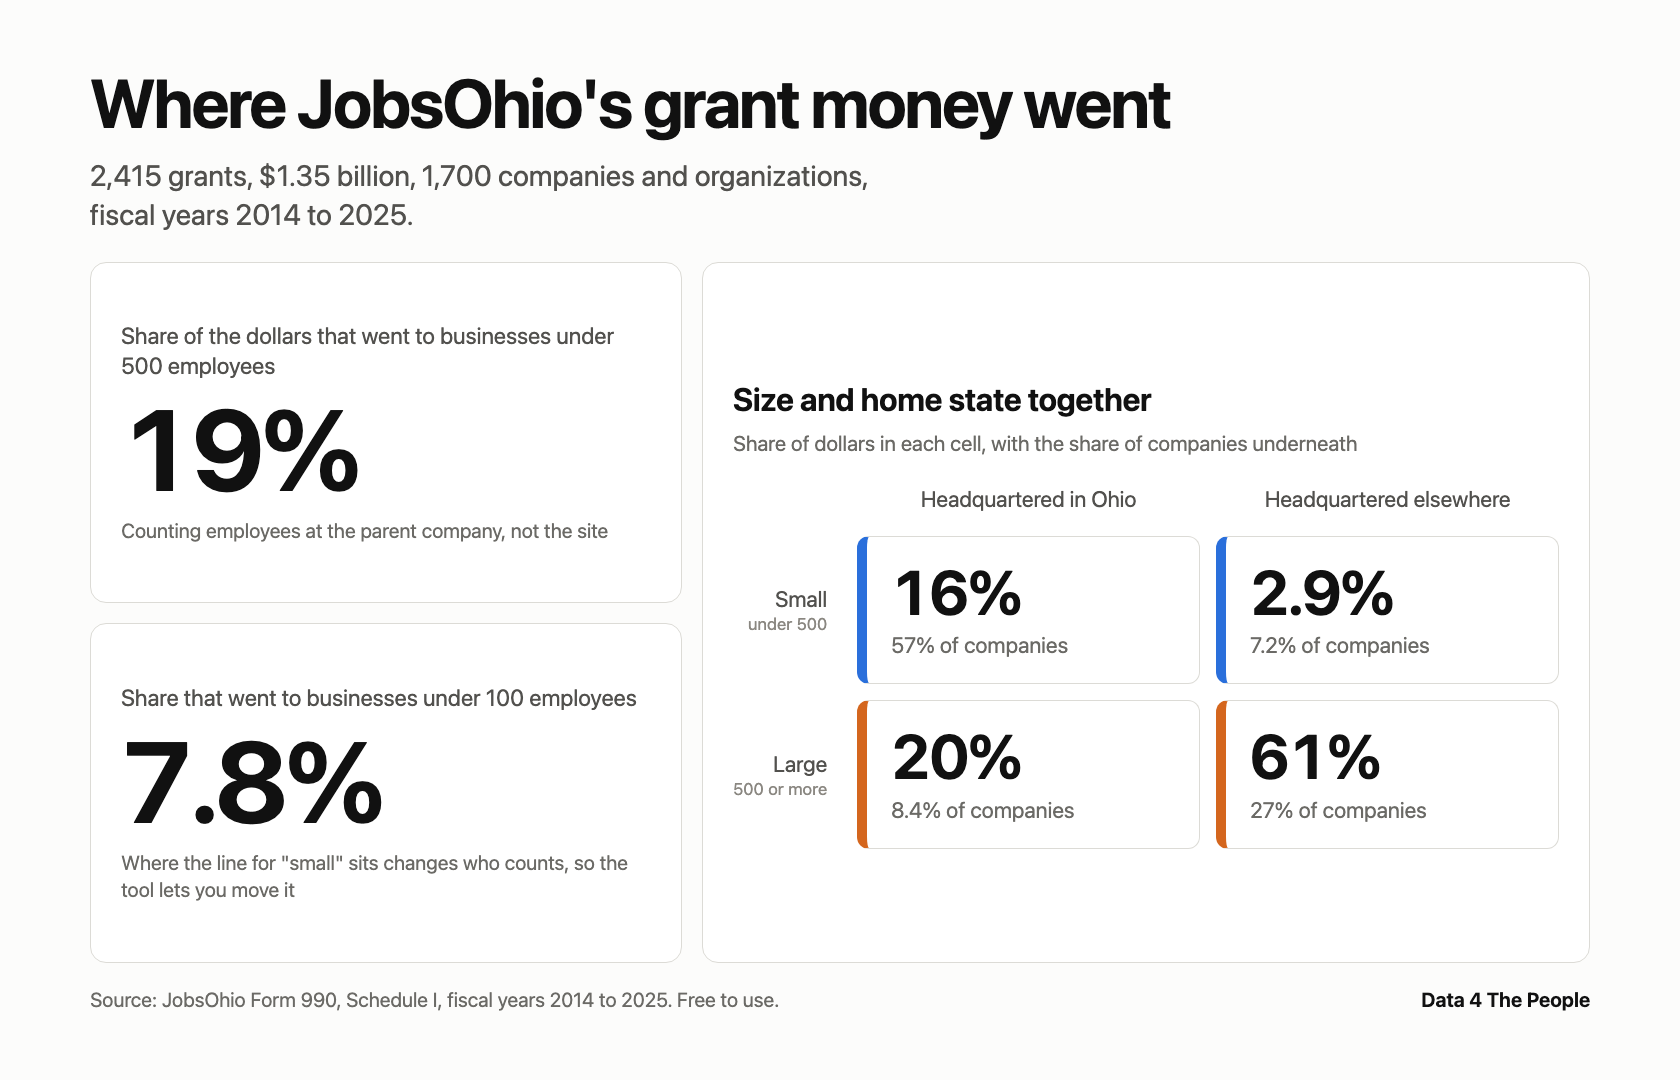
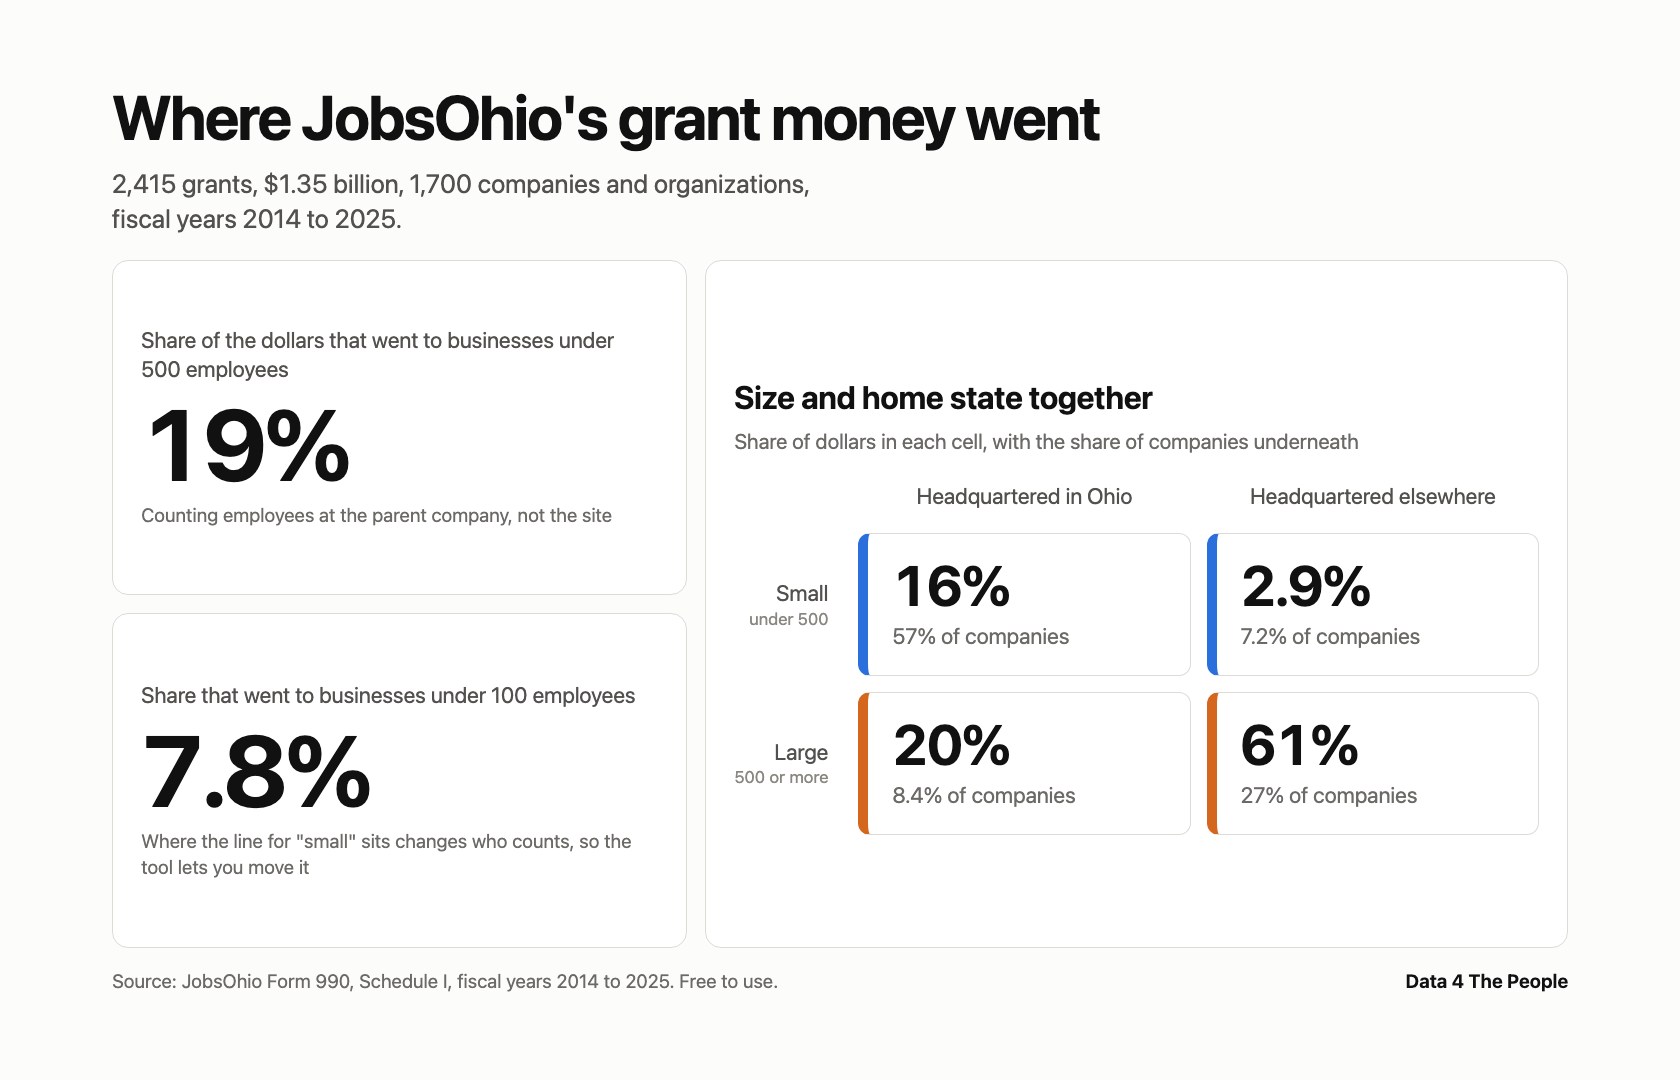
jobsohio-grants: 2d, more edge padding again
84px by 112px in the CSS, which measures 93px above the headline, 88px
below the footer and 112px either side on the rendered image.

Paid for by the type: headline 68 to 62, stat numbers 114 to 100, grid
cells 62 to 56. All still well clear of readable at thumbnail size,
which is the only size that matters here.

diff --git a/posts/jobsohio-grants/images/jobsohio-grants-hero-source.html b/posts/jobsohio-grants/images/jobsohio-grants-hero-source.html
@@ -4,18 +4,18 @@
   html,body{width:1680px;height:1080px}
   body{background:#fcfcfb;color:#111;
     font:16px/1.45 -apple-system,BlinkMacSystemFont,"Segoe UI",Helvetica,Arial,sans-serif;
-    padding:66px 90px;display:flex;flex-direction:column}
-  h1{font-size:68px;line-height:1.06;letter-spacing:-.026em;font-weight:680}
-  .sub{font-size:29px;color:#52514e;margin-top:18px;max-width:46ch;line-height:1.35}
-  .cards{display:grid;grid-template-columns:1fr 1.5fr;gap:20px;margin-top:28px;
+    padding:84px 112px;display:flex;flex-direction:column}
+  h1{font-size:62px;line-height:1.06;letter-spacing:-.026em;font-weight:680}
+  .sub{font-size:26px;color:#52514e;margin-top:16px;max-width:46ch;line-height:1.35}
+  .cards{display:grid;grid-template-columns:1fr 1.5fr;gap:18px;margin-top:24px;
     flex:1;align-content:stretch}
-  .col{display:flex;flex-direction:column;gap:20px}
-  .card{border:1px solid #dcdbd6;border-radius:16px;padding:26px 30px;background:#fff;
+  .col{display:flex;flex-direction:column;gap:18px}
+  .card{border:1px solid #dcdbd6;border-radius:16px;padding:24px 28px;background:#fff;
     display:flex;flex-direction:column;justify-content:center;flex:1}
-  .lab{font-size:23px;color:#52514e;line-height:1.3}
-  .val{font-size:114px;font-weight:680;letter-spacing:-.03em;line-height:1;margin-top:10px;
+  .lab{font-size:22px;color:#52514e;line-height:1.3}
+  .val{font-size:100px;font-weight:680;letter-spacing:-.03em;line-height:1;margin-top:10px;
     font-variant-numeric:tabular-nums}
-  .hint{font-size:20px;color:#6b6a66;margin-top:12px;line-height:1.35}
+  .hint{font-size:19px;color:#6b6a66;margin-top:10px;line-height:1.35}
   h2{font-size:32px;font-weight:650;letter-spacing:-.012em}
   .note{font-size:21px;color:#6b6a66;margin-top:7px;line-height:1.35}
   .two{display:grid;grid-template-columns:auto 1fr 1fr;gap:16px;margin-top:26px}
@@ -24,11 +24,11 @@
     text-align:right;line-height:1.2}
   .rh span{display:block;font-size:17px;color:#8a8781;margin-top:2px}
   .cell{border:1px solid #dcdbd6;border-left-width:10px;border-radius:12px;padding:22px 24px}
-  .cell .v{font-size:62px;font-weight:660;letter-spacing:-.025em;line-height:1.05;
+  .cell .v{font-size:56px;font-weight:660;letter-spacing:-.025em;line-height:1.05;
     font-variant-numeric:tabular-nums}
   .cell .s{font-size:22px;color:#6b6a66;margin-top:6px}
-  .foot{display:flex;justify-content:space-between;align-items:flex-end;margin-top:22px;
-    font-size:20px;color:#6b6a66}
+  .foot{display:flex;justify-content:space-between;align-items:flex-end;margin-top:20px;
+    font-size:19px;color:#6b6a66}
   .foot b{color:#111;font-weight:650}
 </style></head><body>
   <h1>Where JobsOhio's grant money went</h1>

diff --git a/scripts/48_hero.py b/scripts/48_hero.py
@@ -73,18 +73,18 @@ PAGE = """<!doctype html><html><head><meta charset="utf-8"><style>
   html,body{{width:{W}px;height:{H}px}}
   body{{background:#fcfcfb;color:#111;
     font:16px/1.45 -apple-system,BlinkMacSystemFont,"Segoe UI",Helvetica,Arial,sans-serif;
-    padding:66px 90px;display:flex;flex-direction:column}}
-  h1{{font-size:68px;line-height:1.06;letter-spacing:-.026em;font-weight:680}}
-  .sub{{font-size:29px;color:#52514e;margin-top:18px;max-width:46ch;line-height:1.35}}
-  .cards{{display:grid;grid-template-columns:1fr 1.5fr;gap:20px;margin-top:28px;
+    padding:84px 112px;display:flex;flex-direction:column}}
+  h1{{font-size:62px;line-height:1.06;letter-spacing:-.026em;font-weight:680}}
+  .sub{{font-size:26px;color:#52514e;margin-top:16px;max-width:46ch;line-height:1.35}}
+  .cards{{display:grid;grid-template-columns:1fr 1.5fr;gap:18px;margin-top:24px;
     flex:1;align-content:stretch}}
-  .col{{display:flex;flex-direction:column;gap:20px}}
-  .card{{border:1px solid #dcdbd6;border-radius:16px;padding:26px 30px;background:#fff;
+  .col{{display:flex;flex-direction:column;gap:18px}}
+  .card{{border:1px solid #dcdbd6;border-radius:16px;padding:24px 28px;background:#fff;
     display:flex;flex-direction:column;justify-content:center;flex:1}}
-  .lab{{font-size:23px;color:#52514e;line-height:1.3}}
-  .val{{font-size:114px;font-weight:680;letter-spacing:-.03em;line-height:1;margin-top:10px;
+  .lab{{font-size:22px;color:#52514e;line-height:1.3}}
+  .val{{font-size:100px;font-weight:680;letter-spacing:-.03em;line-height:1;margin-top:10px;
     font-variant-numeric:tabular-nums}}
-  .hint{{font-size:20px;color:#6b6a66;margin-top:12px;line-height:1.35}}
+  .hint{{font-size:19px;color:#6b6a66;margin-top:10px;line-height:1.35}}
   h2{{font-size:32px;font-weight:650;letter-spacing:-.012em}}
   .note{{font-size:21px;color:#6b6a66;margin-top:7px;line-height:1.35}}
   .two{{display:grid;grid-template-columns:auto 1fr 1fr;gap:16px;margin-top:26px}}
@@ -93,11 +93,11 @@ PAGE = """<!doctype html><html><head><meta charset="utf-8"><style>
     text-align:right;line-height:1.2}}
   .rh span{{display:block;font-size:17px;color:#8a8781;margin-top:2px}}
   .cell{{border:1px solid #dcdbd6;border-left-width:10px;border-radius:12px;padding:22px 24px}}
-  .cell .v{{font-size:62px;font-weight:660;letter-spacing:-.025em;line-height:1.05;
+  .cell .v{{font-size:56px;font-weight:660;letter-spacing:-.025em;line-height:1.05;
     font-variant-numeric:tabular-nums}}
   .cell .s{{font-size:22px;color:#6b6a66;margin-top:6px}}
-  .foot{{display:flex;justify-content:space-between;align-items:flex-end;margin-top:22px;
-    font-size:20px;color:#6b6a66}}
+  .foot{{display:flex;justify-content:space-between;align-items:flex-end;margin-top:20px;
+    font-size:19px;color:#6b6a66}}
   .foot b{{color:#111;font-weight:650}}
 </style></head><body>
   <h1>Where JobsOhio's grant money went</h1>
